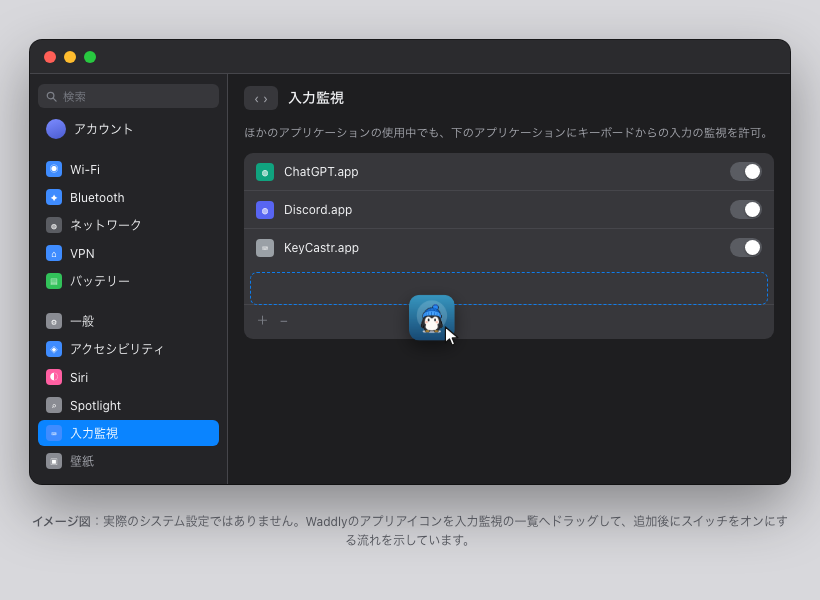
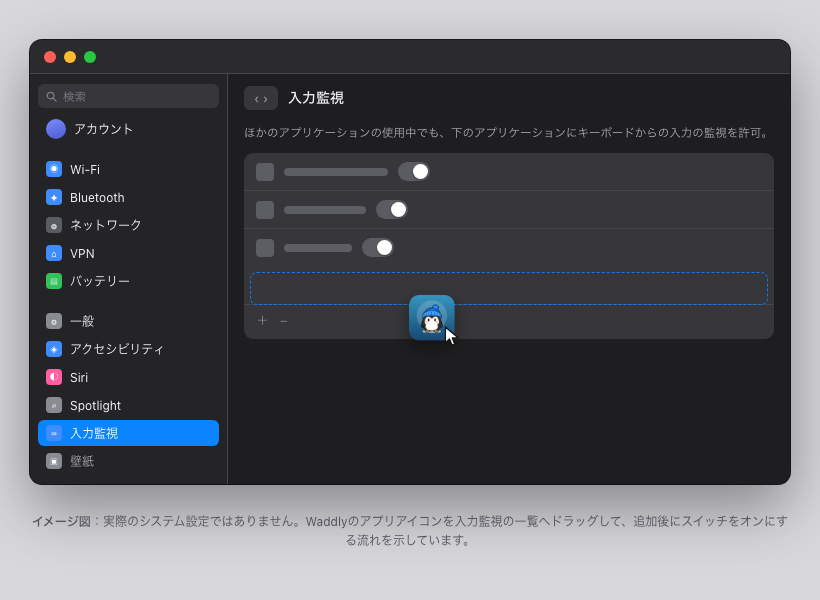
fix(setup): stop naming real apps in the drag guide
The guide's mock list used ChatGPT and Discord as stand-in rows. Naming
other products inside our own UI implies they are already registered, and
there is no reason to borrow their names, so the rows are now nameless
grey placeholders. The same change is applied to the guide asset.

diff --git a/Sources/WaddlyApp/SetupPreviewStages.swift b/Sources/WaddlyApp/SetupPreviewStages.swift
@@ -55,9 +55,11 @@ extension SetupPreviewPane {
         let header = NSTextField(labelWithString: localization.string(for: .setupDropGuideListTitle))
         header.font = .systemFont(ofSize: 11, weight: .semibold)
 
+        // Nameless rows on purpose: naming real apps inside our own UI would imply they are
+        // registered, and it has no business borrowing other products' names.
         let rows = NSStackView(views: [
-            makeMockRow(symbol: "bubble.left", name: "ChatGPT"),
-            makeMockRow(symbol: "gamecontroller", name: "Discord"),
+            makePlaceholderRow(nameWidth: 74),
+            makePlaceholderRow(nameWidth: 58),
             makeDropSlot(),
             makeMockTools()
         ])
@@ -83,34 +85,32 @@ extension SetupPreviewPane {
         return card
     }
 
-    private func makeMockRow(symbol: String, name: String) -> NSStackView {
-        let icon = NSImageView()
-        icon.image = NSImage(systemSymbolName: symbol, accessibilityDescription: nil)
-        icon.contentTintColor = .tertiaryLabelColor
-        icon.symbolConfiguration = NSImage.SymbolConfiguration(pointSize: 11, weight: .regular)
-        icon.translatesAutoresizingMaskIntoConstraints = false
-
-        let label = NSTextField(labelWithString: name)
-        label.font = .systemFont(ofSize: 11)
-        label.textColor = .tertiaryLabelColor
-
-        let toggle = NSView()
-        toggle.translatesAutoresizingMaskIntoConstraints = false
-        toggle.wantsLayer = true
-        toggle.layer?.cornerRadius = 7
-        toggle.layer?.backgroundColor = NSColor.tertiaryLabelColor.withAlphaComponent(0.35).cgColor
-        NSLayoutConstraint.activate([
-            toggle.widthAnchor.constraint(equalToConstant: 24),
-            toggle.heightAnchor.constraint(equalToConstant: 14)
-        ])
+    /// A grey stand-in for one row of the settings list.
+    private func makePlaceholderRow(nameWidth: CGFloat) -> NSStackView {
+        let icon = makePlaceholder(width: 11, height: 11, radius: 3)
+        let name = makePlaceholder(width: nameWidth, height: 7, radius: 3.5)
+        let toggle = makePlaceholder(width: 24, height: 14, radius: 7)
 
         let spacer = NSView()
-        let row = NSStackView(views: [icon, label, spacer, toggle])
+        let row = NSStackView(views: [icon, name, spacer, toggle])
         row.orientation = .horizontal
         row.alignment = .centerY
         row.spacing = 6
         row.translatesAutoresizingMaskIntoConstraints = false
         return row
+    }
+
+    private func makePlaceholder(width: CGFloat, height: CGFloat, radius: CGFloat) -> NSView {
+        let view = NSView()
+        view.translatesAutoresizingMaskIntoConstraints = false
+        view.wantsLayer = true
+        view.layer?.cornerRadius = radius
+        view.layer?.backgroundColor = NSColor.tertiaryLabelColor.withAlphaComponent(0.3).cgColor
+        NSLayoutConstraint.activate([
+            view.widthAnchor.constraint(equalToConstant: width),
+            view.heightAnchor.constraint(equalToConstant: height)
+        ])
+        return view
     }
 
     private func makeDropSlot() -> DashedDropSlotView {

diff --git a/assets/examples/input-monitoring-guide.html b/assets/examples/input-monitoring-guide.html
@@ -146,6 +146,12 @@
     font-size: 10px; color: #fff;
   }
   .row-name { flex: 1; }
+  /* Nameless rows: borrowing real product names would imply they are registered here. */
+  .row-icon.placeholder { background: var(--faint); opacity: .55; }
+  .row-name.placeholder {
+    flex: none; height: 8px; border-radius: 4px;
+    background: var(--faint); opacity: .55;
+  }
   .row-tools {
     display: flex; align-items: center; gap: 14px;
     padding: 6px 12px 8px;
@@ -292,18 +298,18 @@
 
     <div class="list">
       <div class="row">
-        <span class="row-icon" style="background:#10a37f">◍</span>
-        <span class="row-name">ChatGPT.app</span>
+        <span class="row-icon placeholder"></span>
+        <span class="row-name placeholder" style="width:104px"></span>
         <span class="toggle"><span class="knob" style="transform:translateX(13px)"></span></span>
       </div>
       <div class="row">
-        <span class="row-icon" style="background:#5865f2">◍</span>
-        <span class="row-name">Discord.app</span>
+        <span class="row-icon placeholder"></span>
+        <span class="row-name placeholder" style="width:82px"></span>
         <span class="toggle"><span class="knob" style="transform:translateX(13px)"></span></span>
       </div>
       <div class="row">
-        <span class="row-icon" style="background:#9aa0a6">⌨</span>
-        <span class="row-name">KeyCastr.app</span>
+        <span class="row-icon placeholder"></span>
+        <span class="row-name placeholder" style="width:68px"></span>
         <span class="toggle"><span class="knob" style="transform:translateX(13px)"></span></span>
       </div>
       <div class="row waddly-row">
